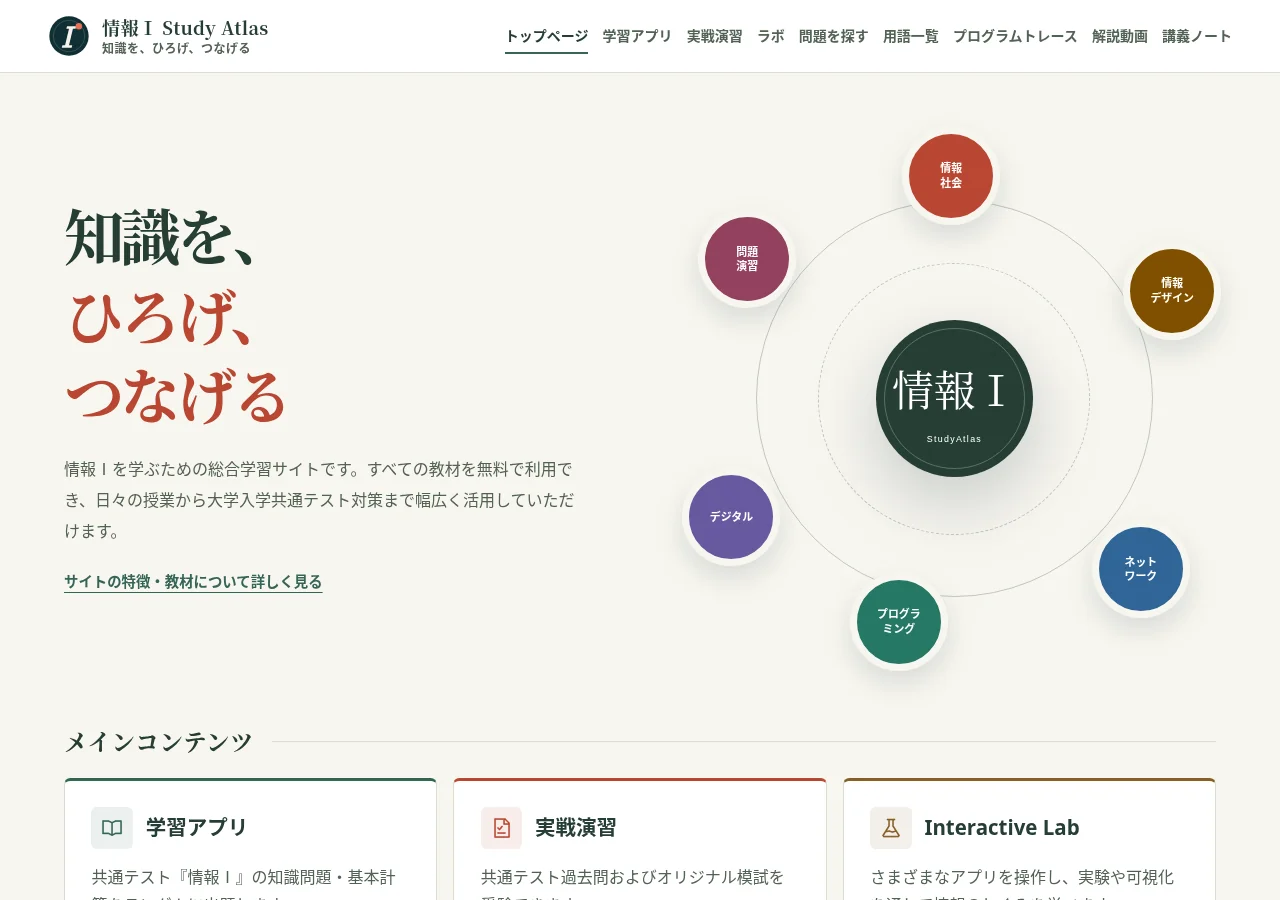
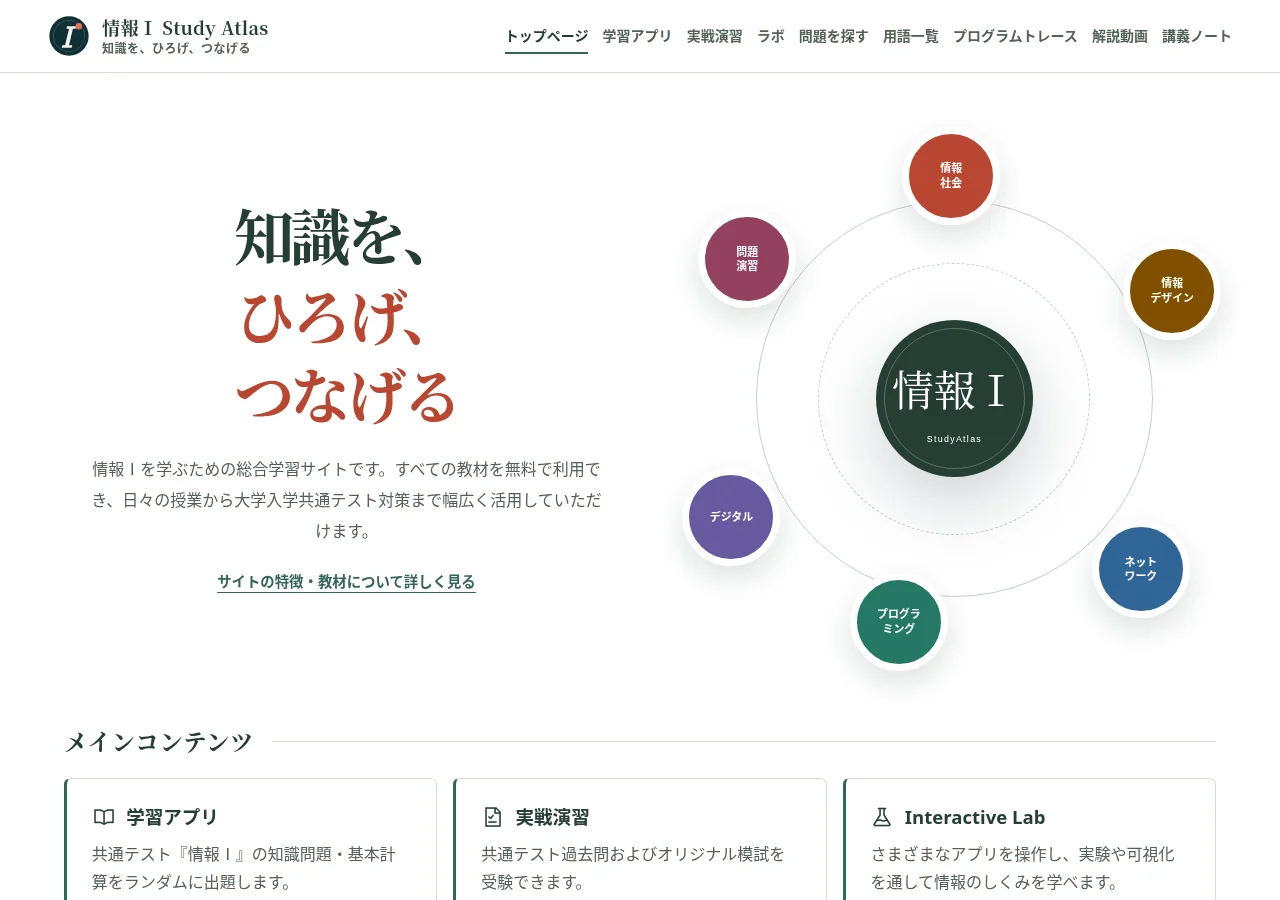
白地にカードを揃え、トップのタイトルを中央に配置

diff --git a/assets/home.css b/assets/home.css
@@ -2,7 +2,7 @@
 .home-page {
   --home-width: min(72rem, calc(100% - clamp(2.25rem, 8vw, 7rem)));
   --home-serif: "Yu Mincho", "Hiragino Mincho ProN", "Noto Serif CJK JP", "Noto Serif JP", serif;
-  background: var(--atlas-bg);
+  background: var(--atlas-surface);
 }
 
 .hero {
@@ -22,9 +22,10 @@
   letter-spacing: -.065em;
 }
 .hero-slogan em { color: var(--atlas-terracotta); font-style: normal; }
+.hero-copy { text-align: center; }
 .hero-copy p { max-width: 32rem; }
-.hero-lead { margin: 1.25rem 0 0; color: var(--atlas-muted); font-size: 1rem; line-height: 1.95; }
-.hero-about-link { margin: .9rem 0 0; }
+.hero-lead { margin: 1.25rem auto 0; color: var(--atlas-muted); font-size: 1rem; line-height: 1.95; }
+.hero-about-link { margin: .9rem auto 0; }
 .hero-about-link a { display: inline-block; padding: .45rem 0; color: var(--atlas-accent); font-size: .9rem; font-weight: 650; text-underline-offset: .35em; }
 
 .hero-visual { min-width: 0; display: grid; justify-items: center; gap: 18px; }
@@ -35,7 +36,7 @@
 .map-core::before { content: ""; position: absolute; inset: 8px; border: 1px solid rgb(255 255 255 / 25%); border-radius: 50%; }
 .map-core strong { font-family: Georgia, "Yu Mincho", serif; font-size: clamp(1.6rem, 4vw, 2.6rem); font-weight: 500; }
 .map-core small { margin-top: 8px; font-family: Arial, sans-serif; font-size: .55rem; letter-spacing: .15em; line-height: 1.5; }
-.map-node { position: absolute; z-index: 3; width: 98px; height: 98px; padding: 8px; display: grid; place-items: center; border: 7px solid var(--paper); border-radius: 50%; color: var(--white); font-size: .68rem; font-weight: 800; line-height: 1.35; text-align: center; box-shadow: 0 12px 30px rgb(16 47 53 / 14%); }
+.map-node { position: absolute; z-index: 3; width: 98px; height: 98px; padding: 8px; display: grid; place-items: center; border: 7px solid var(--atlas-surface); border-radius: 50%; color: var(--white); font-size: .68rem; font-weight: 800; line-height: 1.35; text-align: center; box-shadow: 0 12px 30px rgb(16 47 53 / 14%); }
 .node-a { top: -2%; left: 40%; background: var(--coral-strong); }.node-b { top: 20%; right: -1%; background: var(--amber-strong); }.node-c { right: 5%; bottom: 8%; background: var(--blue-strong); }.node-d { bottom: -2%; left: 30%; background: var(--mint-strong); }.node-e { bottom: 18%; left: -2%; background: var(--violet-strong); }.node-f { top: 14%; left: 1%; background: var(--pink-strong); }
 
 .home-page .section { width: var(--home-width); padding: 0 0 clamp(2.3rem, 4vw, 4rem); }
@@ -52,30 +53,31 @@
   font: 650 clamp(1.35rem, 1.85vw, 1.65rem)/1.5 var(--home-serif);
   letter-spacing: .01em;
 }
-.home-action-grid, .home-misc-grid { display: grid; grid-template-columns: repeat(3, minmax(0, 1fr)); }
-.home-action-grid { gap: 1rem; }
-.home-action-card, .home-misc-card {
+.home-action-grid, .home-misc-grid {
+  display: grid;
+  grid-template-columns: repeat(3, minmax(0, 1fr));
+  gap: 1rem;
+}
+
+.home-action-card, .home-other-card {
   color: var(--atlas-ink);
   text-decoration: none;
+  background: var(--atlas-surface);
   border: 1px solid var(--atlas-line);
-  transition: border-color .16s ease, background-color .16s ease;
+  border-radius: .4rem;
 }
-.home-action-card.accent-mint { --accent: var(--atlas-action); }
-.home-action-card.accent-coral { --accent: var(--atlas-terracotta); }
-.home-action-card.accent-amber { --accent: var(--atlas-ochre); }
+
 .home-action-card {
   display: flex;
   flex-direction: column;
-  padding: clamp(1.1rem, 2.2vw, 1.65rem);
-  border-radius: .4rem;
-  border-top: 3px solid var(--accent);
-  background: var(--atlas-surface);
+  padding: clamp(1rem, 2vw, 1.55rem);
+  border-inline-start: 3px solid var(--atlas-action);
 }
-.home-action-heading { display: flex; flex-wrap: wrap; align-items: center; gap: .8rem; }
-.home-action-card h3, .home-misc-card h3 { margin: 0; font-weight: 650; line-height: 1.45; }
-.home-action-card h3 { font-size: clamp(1.15rem, 1.6vw, 1.4rem); }
-.home-action-card p, .home-misc-card p { color: var(--atlas-muted); line-height: 1.75; }
-.home-action-card p { margin: .85rem 0 0; font-size: 1rem; }
+
+.home-action-heading { display: flex; align-items: center; gap: .65rem; }
+.home-action-card h3, .home-other-card h3 { margin: 0; font-weight: 650; line-height: 1.45; }
+.home-action-card h3 { font-size: clamp(1.08rem, 1.45vw, 1.3rem); }
+.home-action-card p { margin: .6rem 0 0; color: var(--atlas-muted); font-size: 1rem; line-height: 1.75; }
 .home-action-card .home-app-summary { margin-top: .65rem; font-size: .875rem; }
 .home-action-icon {
   flex: none;
@@ -83,14 +85,7 @@
   height: 1.5rem;
   display: grid;
   place-items: center;
-  color: var(--atlas-accent);
-}
-.home-action-heading .home-action-icon {
-  width: 2.6rem;
-  height: 2.6rem;
-  color: var(--accent);
-  background: color-mix(in srgb, var(--accent) 10%, white);
-  border-radius: .35rem;
+  color: var(--atlas-ink);
 }
 .home-action-icon::before {
   content: "";
@@ -111,35 +106,36 @@
 .icon-help { --icon-position: 90%; }
 .icon-book { --icon-position: 100%; }
 
-.home-misc-grid { column-gap: clamp(1.1rem, 3vw, 2.25rem); }
-.home-misc-card {
-  display: flex;
+.home-other-grid { display: flex; flex-wrap: wrap; gap: 10px; }
+.home-other-card {
+  display: inline-flex;
   align-items: center;
-  gap: .8rem;
-  padding: 1rem .25rem;
-  border-width: 0 0 1px;
+  width: min(100%, 210px);
+  min-height: 48px;
+  padding: 8px 12px;
+  gap: 9px;
 }
-.home-misc-card h3 { font-size: 1rem; }
-.home-misc-card p { margin: .2rem 0 0; font-size: .9rem; }
-.home-other-grid { display: flex; flex-wrap: wrap; gap: .5rem 1rem; }
-.home-other-card { padding: .55rem .85rem; min-height: 44px; border-width: 1px; border-radius: .35rem; }
-.home-other-card .home-action-icon { transform: scale(.82); }
-.home-action-card:hover, .home-misc-card:hover { border-color: var(--atlas-accent); background-color: var(--atlas-soft); }
-.home-action-card:focus-visible, .home-misc-card:focus-visible, .hero-about-link a:focus-visible { outline: 3px solid var(--atlas-accent); outline-offset: 3px; }
+.home-other-card h3 { font-size: .9rem; }
+.home-action-card:focus-visible, .home-other-card:focus-visible, .hero-about-link a:focus-visible {
+  outline: 3px solid var(--atlas-accent);
+  outline-offset: 3px;
+}
+
+@media (hover: hover) and (pointer: fine) {
+  :is(.home-action-card, .home-other-card):hover h3 {
+    text-decoration: underline;
+    text-underline-offset: .2em;
+  }
+}
 
 @media (max-width: 58rem) {
-  .home-action-heading { flex-direction: column; align-items: flex-start; }
   .hero { gap: 1.5rem; }
-  .home-misc-grid { grid-template-columns: repeat(2, minmax(0, 1fr)); }
+  .home-action-grid, .home-misc-grid { grid-template-columns: repeat(2, minmax(0, 1fr)); }
 }
 @media (max-width: 680px) {
-  .hero { grid-template-columns: 1fr; gap: 1.3rem; padding: 2rem 0; }
+  .hero { grid-template-columns: 1fr; padding: 2rem 0; }
   .hero-lead { margin-top: .9rem; }
   .hero-visual { display: none; }
-  .home-action-grid, .home-misc-grid { grid-template-columns: 1fr; }
-  .home-action-grid { gap: .65rem; }
-  .home-action-heading { flex-direction: row; align-items: center; }
-  .home-action-card { border-width: 1px 1px 1px 3px; border-color: var(--atlas-line) var(--atlas-line) var(--atlas-line) var(--accent); }
-  .home-action-card p { margin-top: .6rem; }
+  .home-action-grid, .home-misc-grid { grid-template-columns: 1fr; gap: .65rem; }
   .home-other-grid { gap: .5rem; }
 }

diff --git a/index.html b/index.html
@@ -62,29 +62,29 @@
       <section class="section home-actions-section" aria-labelledby="home-actions-heading">
         <div class="section-heading section-heading-single home-section-title"><div><h2 id="home-actions-heading">メインコンテンツ</h2></div></div>
         <div class="home-action-grid">
-          <a class="home-action-card accent-mint" href="./info1-quiz-app/app/"><div class="home-action-heading"><span class="home-action-icon icon-learn" aria-hidden="true"></span><h3>学習アプリ</h3></div><p>共通テスト『情報Ⅰ』の知識問題・基本計算をランダムに出題します。</p></a>
-          <a class="home-action-card accent-coral" href="./mock-exams/"><div class="home-action-heading"><span class="home-action-icon icon-exam" aria-hidden="true"></span><h3>実戦演習</h3></div><p>共通テスト過去問およびオリジナル模試を受験できます。</p></a>
-          <a class="home-action-card accent-amber" href="./lab/"><div class="home-action-heading"><span class="home-action-icon icon-lab" aria-hidden="true"></span><h3>Interactive Lab</h3></div><p>さまざまなアプリを操作し、実験や可視化を通して情報のしくみを学べます。</p></a>
+          <a class="home-action-card" href="./info1-quiz-app/app/"><div class="home-action-heading"><span class="home-action-icon icon-learn" aria-hidden="true"></span><h3>学習アプリ</h3></div><p>共通テスト『情報Ⅰ』の知識問題・基本計算をランダムに出題します。</p></a>
+          <a class="home-action-card" href="./mock-exams/"><div class="home-action-heading"><span class="home-action-icon icon-exam" aria-hidden="true"></span><h3>実戦演習</h3></div><p>共通テスト過去問およびオリジナル模試を受験できます。</p></a>
+          <a class="home-action-card" href="./lab/"><div class="home-action-heading"><span class="home-action-icon icon-lab" aria-hidden="true"></span><h3>Interactive Lab</h3></div><p>さまざまなアプリを操作し、実験や可視化を通して情報のしくみを学べます。</p></a>
         </div>
       </section>
 
       <section class="section home-sub-section" aria-labelledby="home-sub-heading">
         <div class="section-heading section-heading-single home-section-title"><div><h2 id="home-sub-heading">サブコンテンツ</h2></div></div>
         <div class="home-misc-grid">
-          <a class="home-misc-card accent-coral" href="./info1-quiz-app/questions/"><span class="home-action-icon icon-search" aria-hidden="true"></span><div><h3>問題を探す</h3><p>アプリ掲載問題をタグから絞り込めます。</p></div></a>
-          <a class="home-misc-card accent-mint" href="./terms/"><span class="home-action-icon icon-terms" aria-hidden="true"></span><div><h3>用語を調べる</h3><p>用語の詳しい解説を読むことができます。</p></div></a>
-          <a class="home-misc-card accent-mint" href="./program-trace/"><span class="home-action-icon icon-code" aria-hidden="true"></span><div><h3>プログラムを実行する</h3><p>プログラムを1行ずつ実行します。</p></div></a>
-          <a class="home-misc-card accent-violet" href="./archive/"><span class="home-action-icon icon-video" aria-hidden="true"></span><div><h3>解説動画を見る</h3><p>一問一答形式の問題を動画で解説します。</p></div></a>
-          <a class="home-misc-card accent-amber" href="./LectureNote/"><span class="home-action-icon icon-note" aria-hidden="true"></span><div><h3>講義ノートを読む</h3><p>わかりやすく体系的な学習ができます。</p></div></a>
+          <a class="home-action-card" href="./info1-quiz-app/questions/"><div class="home-action-heading"><span class="home-action-icon icon-search" aria-hidden="true"></span><h3>問題を探す</h3></div><p>アプリ掲載問題をタグから絞り込めます。</p></a>
+          <a class="home-action-card" href="./terms/"><div class="home-action-heading"><span class="home-action-icon icon-terms" aria-hidden="true"></span><h3>用語を調べる</h3></div><p>用語の詳しい解説を読むことができます。</p></a>
+          <a class="home-action-card" href="./program-trace/"><div class="home-action-heading"><span class="home-action-icon icon-code" aria-hidden="true"></span><h3>プログラムを実行する</h3></div><p>プログラムを1行ずつ実行します。</p></a>
+          <a class="home-action-card" href="./archive/"><div class="home-action-heading"><span class="home-action-icon icon-video" aria-hidden="true"></span><h3>解説動画を見る</h3></div><p>一問一答形式の問題を動画で解説します。</p></a>
+          <a class="home-action-card" href="./LectureNote/"><div class="home-action-heading"><span class="home-action-icon icon-note" aria-hidden="true"></span><h3>講義ノートを読む</h3></div><p>わかりやすく体系的な学習ができます。</p></a>
         </div>
       </section>
 
       <section class="section home-misc-section" aria-labelledby="home-misc-heading">
         <div class="section-heading section-heading-single home-section-title"><div><h2 id="home-misc-heading">その他</h2></div></div>
         <div class="home-other-grid">
-          <a class="home-misc-card home-other-card accent-coral" href="./about.html"><span class="home-action-icon icon-about" aria-hidden="true"></span><h3>このサイトについて</h3></a>
-          <a class="home-misc-card home-other-card accent-mint" href="./study-guide.html"><span class="home-action-icon icon-help" aria-hidden="true"></span><h3>使い方</h3></a>
-          <a class="home-misc-card home-other-card accent-blue" href="./books/"><span class="home-action-icon icon-book" aria-hidden="true"></span><h3>書籍案内</h3></a>
+          <a class="home-other-card" href="./about.html"><span class="home-action-icon icon-about" aria-hidden="true"></span><h3>このサイトについて</h3></a>
+          <a class="home-other-card" href="./study-guide.html"><span class="home-action-icon icon-help" aria-hidden="true"></span><h3>使い方</h3></a>
+          <a class="home-other-card" href="./books/"><span class="home-action-icon icon-book" aria-hidden="true"></span><h3>書籍案内</h3></a>
         </div>
       </section>
     </main>

diff --git a/mock-exams/app.css b/mock-exams/app.css
@@ -10,7 +10,7 @@
 }
 body {
   margin: 0;
-  background: var(--atlas-bg, #f8f6f0);
+  background: var(--atlas-bg, #f7f8f8);
   color: var(--mock-ink);
   font-family: var(--atlas-font, "Hiragino Sans", "Yu Gothic", Meiryo, sans-serif);
 }
@@ -784,7 +784,7 @@ dialog h2 {
     position: sticky;
     top: 0;
     z-index: 3;
-    background: var(--atlas-bg, #f8f6f0);
+    background: var(--atlas-bg, #f7f8f8);
     padding: 5px 0;
   }
   .book-nav button {
@@ -1015,7 +1015,7 @@ button.subtle-button {
   padding: 6px 10px;
   min-height: 34px;
   color: var(--mock-muted);
-  background: var(--atlas-bg, #f8f6f0);
+  background: var(--atlas-bg, #f7f8f8);
 }
 .result-actions .back-to-catalog {
   margin-left: 24px;
@@ -1056,7 +1056,7 @@ button.subtle-button {
   font-weight: 600;
 }
 .results .summary-table tfoot {
-  background: var(--atlas-bg, #f8f6f0);
+  background: var(--atlas-bg, #f7f8f8);
 }
 .results .score-maximum {
   white-space: nowrap;
@@ -1286,7 +1286,7 @@ body[data-view="workspace"] > .preview-banner {
   min-height: 36px;
 }
 .history-table tbody tr:hover {
-  background: var(--atlas-bg, #f8f6f0);
+  background: var(--atlas-bg, #f7f8f8);
 }
 .result-actions > button:not(.subtle-danger) {
   font-size: 13px;
@@ -1322,7 +1322,7 @@ body[data-view="workspace"] > .preview-banner {
     position: sticky;
     top: 0;
     z-index: 6;
-    background: var(--atlas-bg, #f8f6f0);
+    background: var(--atlas-bg, #f7f8f8);
     padding: 5px 0;
     gap: 8px;
   }

diff --git a/assets/atlas-tokens.css b/assets/atlas-tokens.css
@@ -1,6 +1,6 @@
 /* Shared interface values. Figures and grading own their semantic palettes. */
 :root {
-  --atlas-bg: #f8f6f0;
+  --atlas-bg: #f7f8f8;
   --atlas-surface: #fff;
   --atlas-soft: #edf2e9;
   --atlas-ink: #263e35;
@@ -8,7 +8,6 @@
   --atlas-blue: #326596;
   --atlas-accent: #356459;
   --atlas-terracotta: #b94732;
-  --atlas-ochre: #855f27;
   --atlas-action: #306653;
   --atlas-action-hover: #234e40;
   --atlas-control: #526456;

diff --git a/scripts/validate_portal.py b/scripts/validate_portal.py
@@ -555,7 +555,7 @@ def main() -> int:
         if any(position < 0 for position in action_positions) or action_positions != sorted(action_positions):
             errors.append("index.html: main content cards are missing or out of order")
         for href, label in (("./info1-quiz-app/app/", "学習アプリ"), ("./mock-exams/", "実戦演習"), ("./lab/", "Interactive Lab")):
-            if not re.search(r'<a class="home-action-card [^"]+" href="' + re.escape(href) + r'">[^\n]*<div class="home-action-heading">[^\n]*<h3>' + re.escape(label) + r'</h3></div>', action_text):
+            if not re.search(r'<a class="home-action-card" href="' + re.escape(href) + r'">[^\n]*<div class="home-action-heading">[^\n]*<h3>' + re.escape(label) + r'</h3></div>', action_text):
                 errors.append(f"index.html: main content card/link mismatch: {label}")
         if "共通テスト過去問およびオリジナル模試を受験できます。" not in action_text:
             errors.append("index.html: mock exam description is outdated")
@@ -572,7 +572,7 @@ def main() -> int:
         if any(position < 0 for position in sub_positions) or sub_positions != sorted(sub_positions):
             errors.append("index.html: sub content cards are missing or out of order")
         for href, label in (("./info1-quiz-app/questions/", "問題を探す"), ("./terms/", "用語を調べる"), ("./program-trace/", "プログラムを実行する"), ("./archive/", "解説動画を見る"), ("./LectureNote/", "講義ノートを読む")):
-            if not re.search(r'<a class="home-misc-card [^"]+" href="' + re.escape(href) + r'">[^\n]*<h3>' + re.escape(label) + r'</h3>', sub_text):
+            if not re.search(r'<a class="home-action-card" href="' + re.escape(href) + r'">[^\n]*<h3>' + re.escape(label) + r'</h3>', sub_text):
                 errors.append(f"index.html: sub content card/link mismatch: {label}")
     misc_match = re.search(r'<section class="section home-misc-section"[^>]*>(.*?)</section>', main_text, flags=re.DOTALL)
     if misc_match is None:

diff --git a/docs/DESIGN.md b/docs/DESIGN.md
@@ -2,11 +2,11 @@
 
 ## 色と文字
 
-本文を載せる紙面は白、周囲は生成り、見出しは深い緑灰色にする。リンクやフォーカスには青緑を使う。トップのキャッチコピーは公開版の改行と赤茶を使い、学習アプリ・実戦演習・Labの入口には深緑・赤茶・黄土色を添える。
+本文を載せる紙面は白、周囲はごく薄いグレー、見出しは深い緑灰色にする。リンクやフォーカスには青緑を使う。トップのキャッチコピーは公開版の改行と赤茶を使う。教材へのカードは白地に揃え、縁の一部に深緑を使う。
 
 | 用途 | CSS変数 | 値 |
 | --- | --- | --- |
-| ページ背景 | --atlas-bg | #F8F6F0 |
+| ページ背景 | --atlas-bg | #F7F8F8 |
 | 紙面・フォーム背景 | --atlas-surface | #FFFFFF |
 | 補足背景 | --atlas-soft | #EDF2E9 |
 | 見出し・本文 | --atlas-ink | #263E35 |
@@ -15,7 +15,6 @@
 | 次へ・採点などの操作 | --atlas-control | #526456 |
 | リンク・フォーカス | --atlas-accent | #356459 |
 | キャッチコピーの強調 | --atlas-terracotta | #B94732 |
-| Labの入口 | --atlas-ochre | #855F27 |
 | 境界線 | --atlas-line | #D9DED1 |
 
 本文は日本語のゴシック体を使い、16px相当を基本とする。読み物は行高1.7〜1.9を目安にする。トップ・記事タイトルの明朝体には、共通の見出し用フォントを利用できる。章見出しは画面幅に応じて拡縮し、説明文や操作ラベルよりはっきり大きくする。正答・誤答、実行行、グラフの系列や図の色には、それぞれの凡例と意味を優先する。

diff --git a/docs/design-review/README.md b/docs/design-review/README.md
@@ -4,7 +4,7 @@
 
 | 領域 | 主な変更 |
 | --- | --- |
-| トップ | キャッチコピーは公開版と同じ3行・赤茶。PC・タブレットでは従来の色付き円形図を表示。680px以下では図を省いて教材への導線を優先。主要教材3件、サブ教材、案内の順で入口を整理 |
+| トップ | キャッチコピーは公開版と同じ3行・赤茶で中央揃え。教材の入口は白いカードに揃え、その他は公開版と同じ幅210px。PC・タブレットでは従来の色付き円形図を表示。680px以下では図を省いて教材への導線を優先。主要教材3件、サブ教材、案内の順で入口を整理 |
 | 共通UI・解説動画・書籍・案内 | 色・余白の基準、ヘッダー、現在地、フォーカス、本文と一覧の文字サイズを共通化 |
 | 用語一覧・用語記事 | 検索入力、表示条件、記事見出しを統一。お気に入り・既読・ハイライトの各状態を維持 |
 | 講義ノート | 独自ヘッダー・フッターを共通CSSへ移行。白地の表題、章の余白、用語への導線を整理 |
